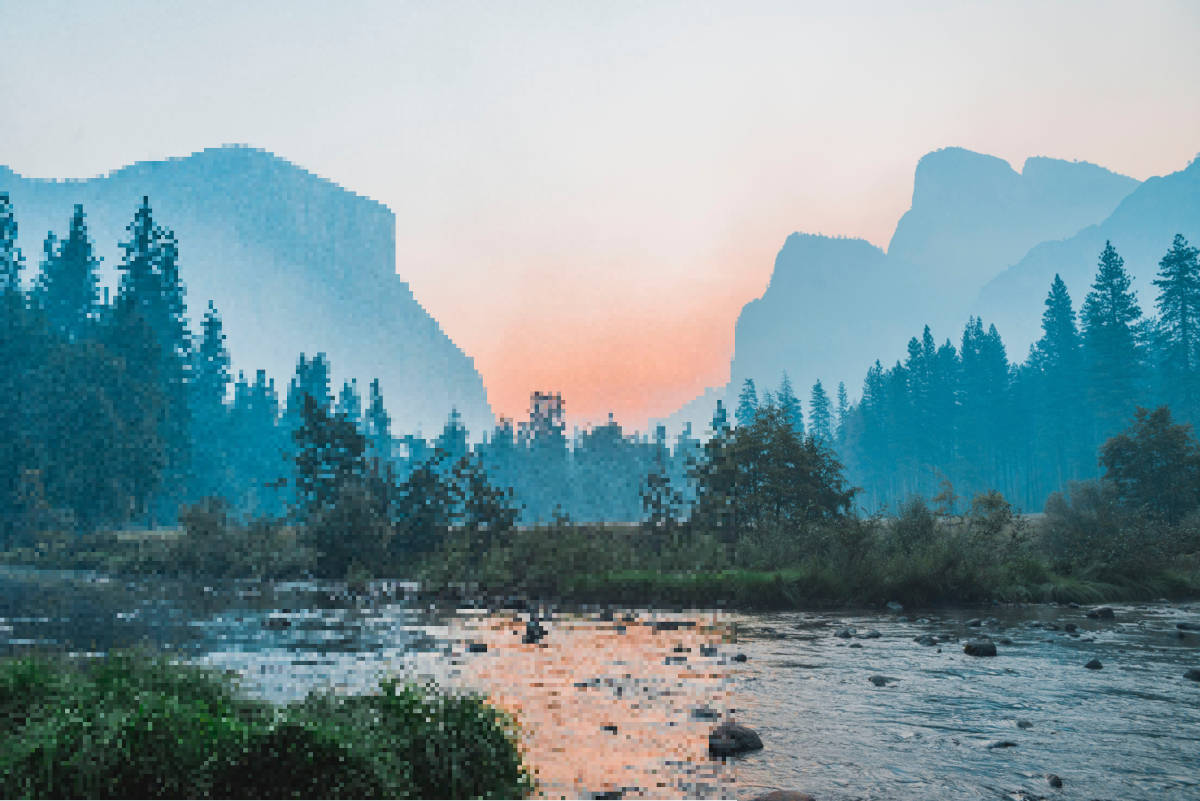
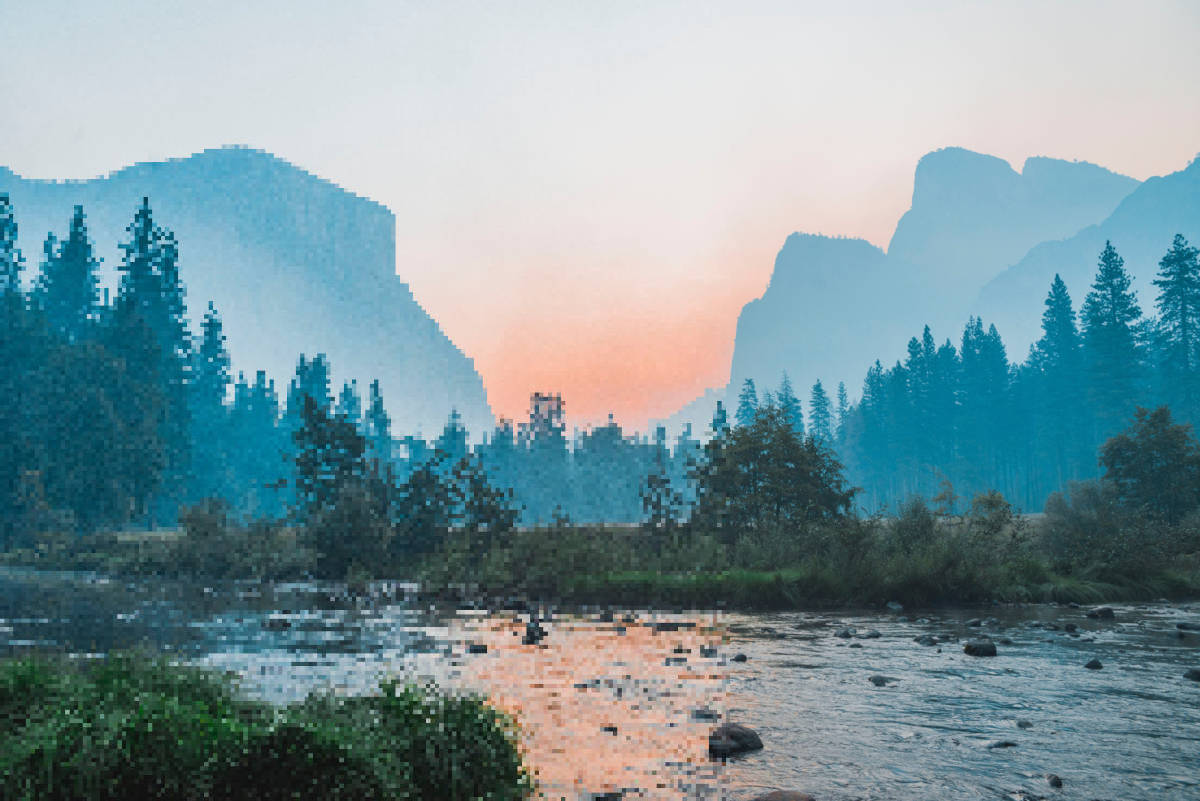
Fix background-position bug

diff --git a/css/components/main-banner.css b/css/components/main-banner.css
@@ -1,7 +1,11 @@
 .main-banner {
     display: flex;
     box-sizing: border-box;
-    background: url(../../assets/img/bailey-zindel-pixel.jpg) no-repeat center bottom / cover fixed;
+    background: url(../../assets/img/bailey-zindel-pixel.jpg) no-repeat fixed;
+    background-position: center bottom;
+    background-position-y: 100%;
+    background-position-x: 50%;
+    background-size: cover;
     height: 88vh;
     border-bottom: 10px solid #000;
     align-items: center;
